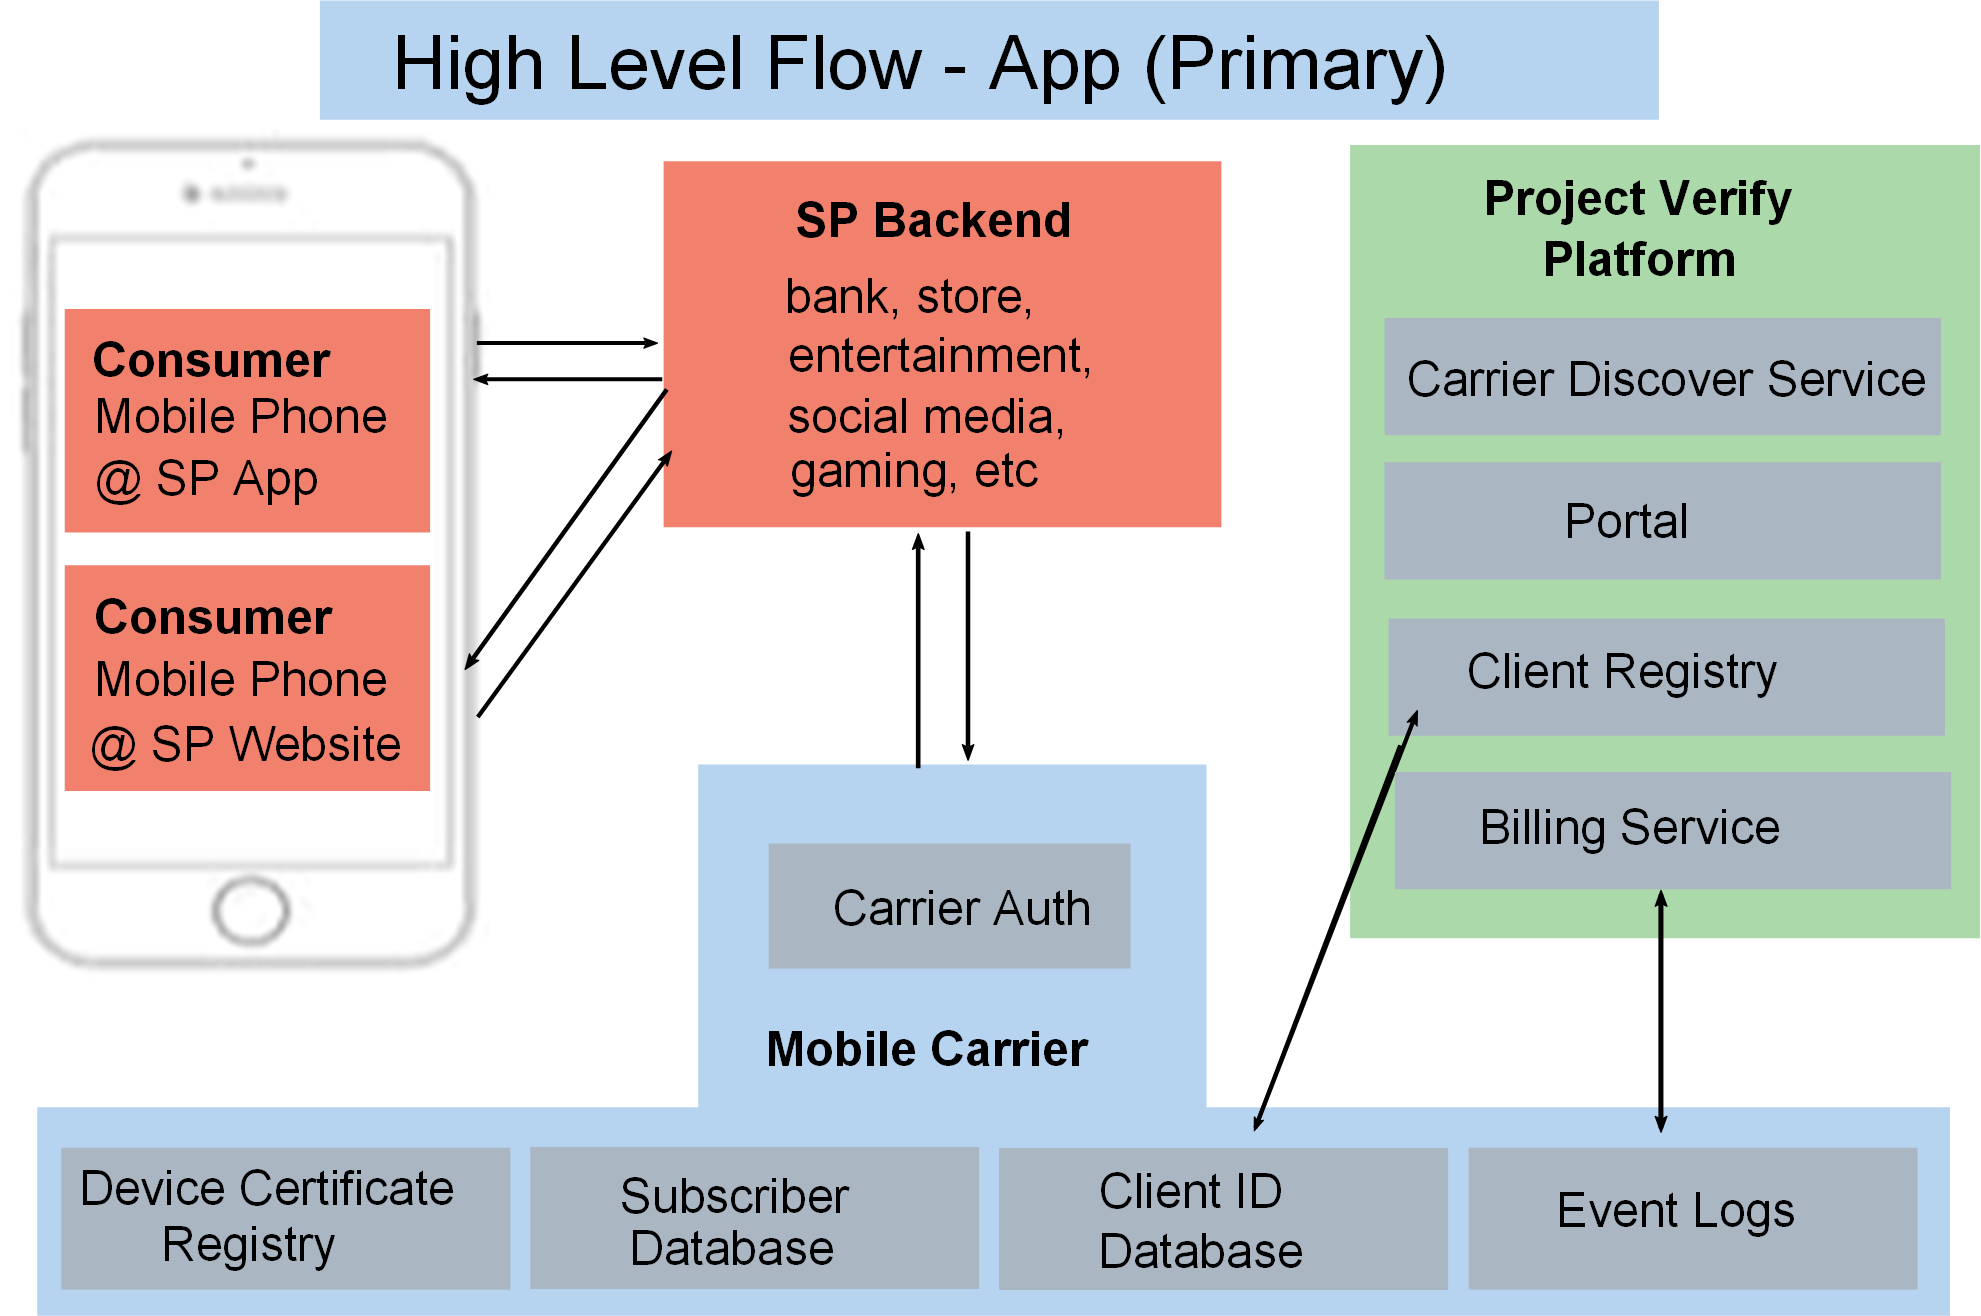
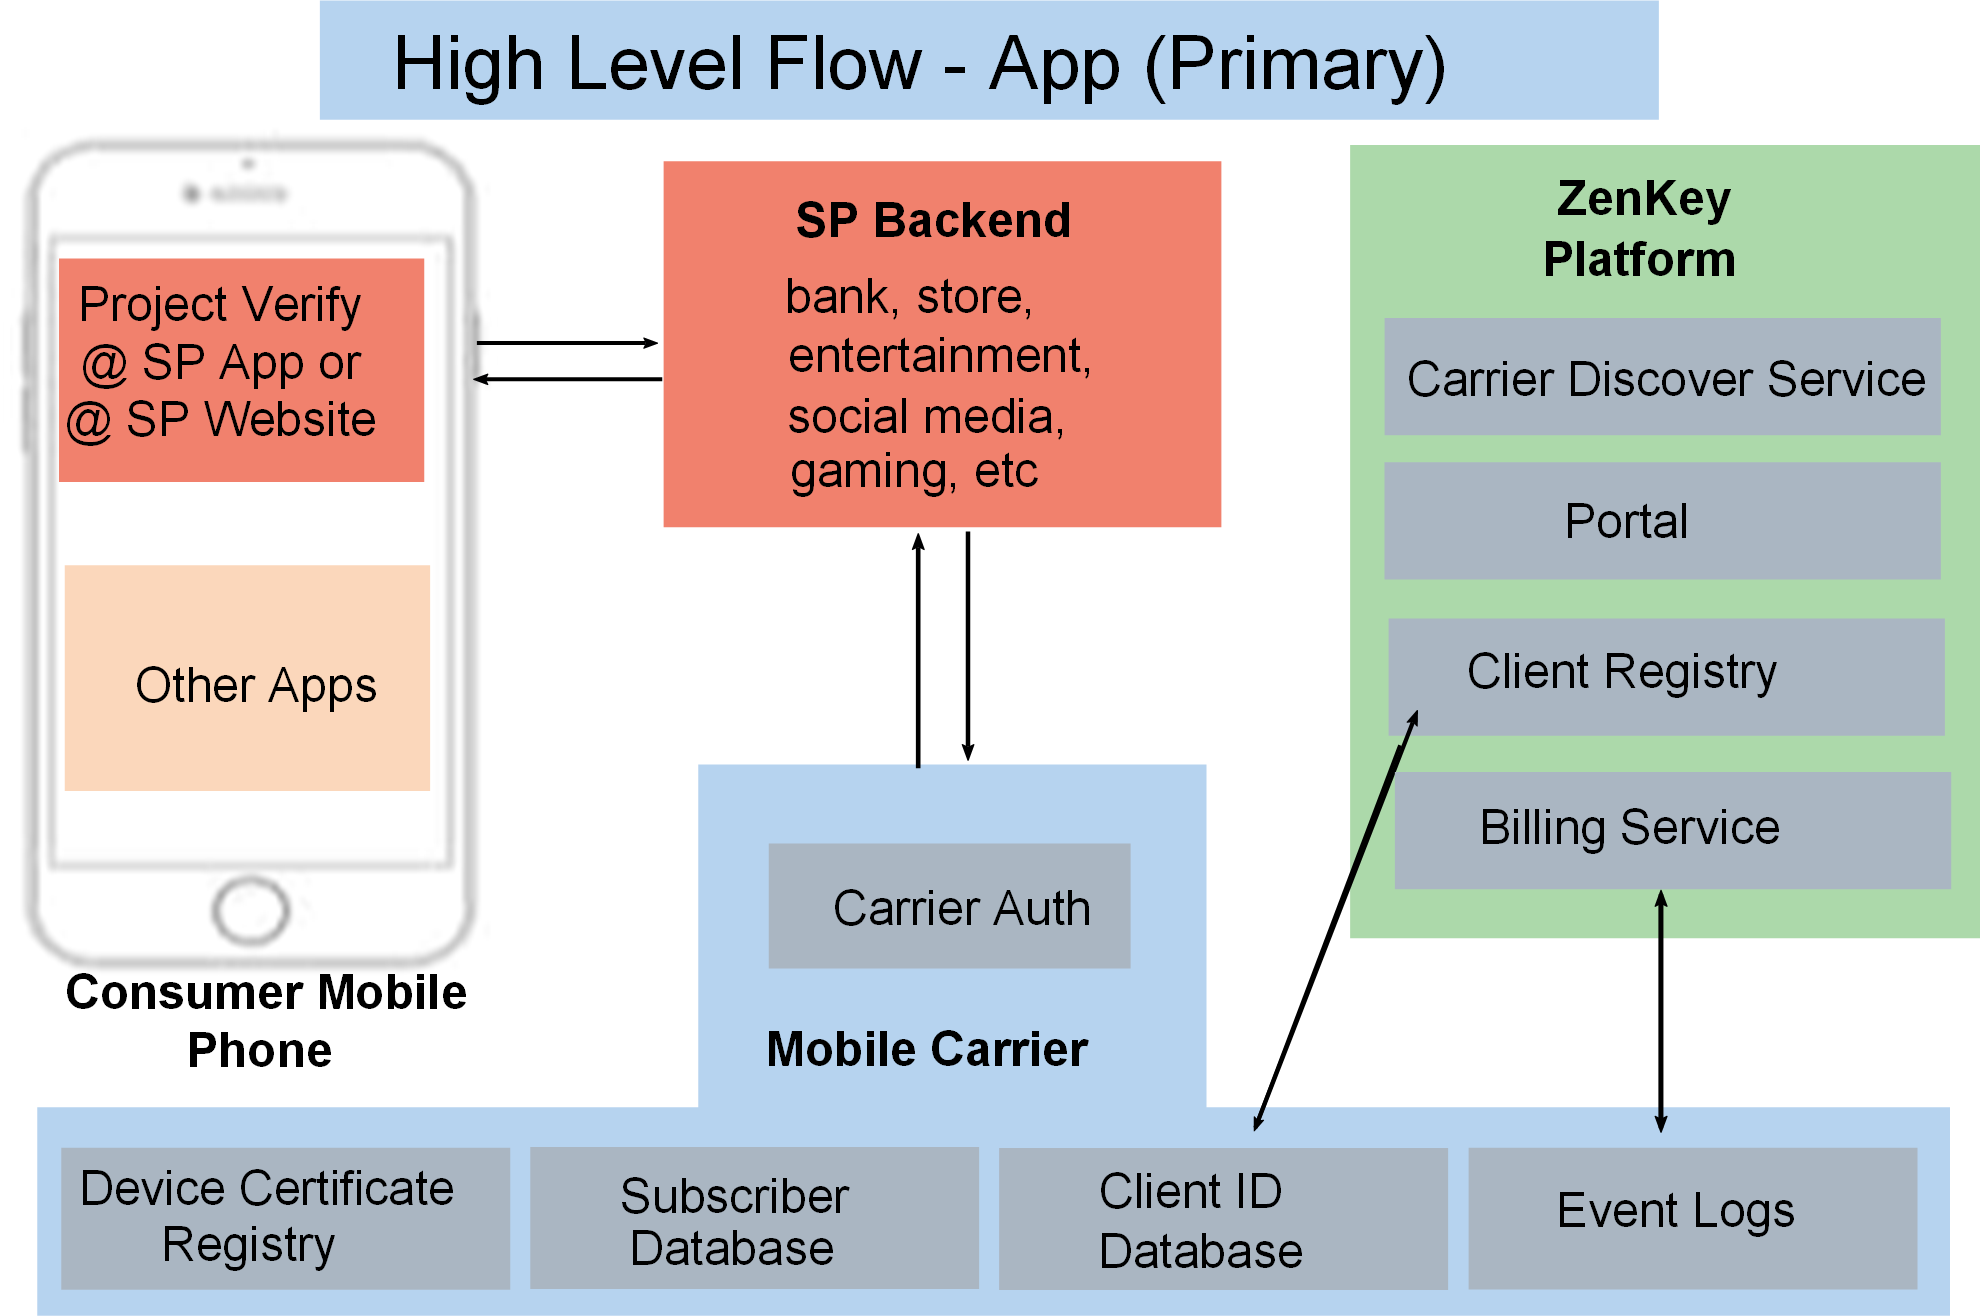
Requested changed added
I added content to respond to the requested changes. Sourced from External API guide and source included in the repo.

diff --git a/README.md b/README.md
@@ -1,12 +1,12 @@
-![Project Verify](image/project_verify.png "Project Verify")
+![Zenkey](image/ZenKey_rgb.png "ZenKey")
 
 # iOS Integration Guide
 
-This guide is for developers integrating Project Verify with their iOS applications.
+This guide is for developers integrating Zenkey with their iOS applications.
 
 ## 1.0 Background
 
-Project Verify is a joint undertaking of the Mobile Authentication Taskforce. The taskforce provides customers with the ability to use their mobile phone number to sign into apps. Project Verify is built on top of OpenID Connect (OIDC).
+Zenkey is a joint undertaking of the Mobile Authentication Taskforce. The taskforce provides customers with the ability to use their mobile phone number to sign into apps. Zenkey is built on top of OpenID Connect (OIDC).
 
 ### 1.1 OpenID Connect
 
@@ -14,27 +14,27 @@ OpenID Connect (OIDC) is an authentication protocol based on the OAuth 2.0 speci
 
 ### 1.2 Authorization Code Flow and Carrier Discovery
 
-Project Verify SDK supports the authorization code flow for web and native applications. In the flow, the user is redirected to the carrier for authorization. Upon successful authorization, the user is redirected to your application with an authorization code, which you should exchange from your secure backend exchanges for an ID token and access token. This flow enhances security, as `clientId`, `clientSecret` and user ID token are not revealed to your client.
+Zenkey SDK supports the authorization code flow for web and native applications. In the flow, the user is redirected to the carrier for authorization. Upon successful authorization, the user is redirected to your application with an authorization code, which you should exchange from your secure backend exchanges for an ID token and access token. This flow enhances security, as `clientId`, `clientSecret` and user ID token are not revealed to your client.
 
-Because each carrier operates its own authorization servers, we determine the user's carrier prior to authentication. This process is called Carrier Discovery (this is an OIDC Discovery with extra parameters). This ensures that the discovery document from Project Verify is for the correct carrier.
+Because each carrier operates its own authorization servers, we determine the user's carrier prior to authentication. This process is called Carrier Discovery (this is an OIDC Discovery with extra parameters). This ensures that the discovery document from Zenkey is for the correct carrier.
 
 ### 1.3 High Level Architecture
 
-Project Verify brings the four main US phone carriers together with a common user authentication experience backed by carrier device authentication. The solution enables two main flows at initial launch (app and web). The app flow is for  service provider (SP) native apps or a SP-browser based websites that are on the same device as Project Verify. The web flow shows secondary device support when the SP website is accessed from a device other than a user’s primary phone.
+Zenkey brings the four main US phone carriers together with a common user authentication experience backed by carrier device authentication. The solution enables two main flows at initial launch (app and web). The app flow is for  service provider (SP) native apps or a SP-browser based websites that are on the same device as Zenkey. The web flow shows secondary device support when the SP website is accessed from a device other than a user’s primary phone.
 
-As the first image shows, consumers from their primary phone access Project Verify either from the SP app or SP website. As a service provider developer, you sign up and log in through the Project Verify portal, then write code in your backend. The architecture looks like this:
+As the first image shows, consumers from their primary phone access Zenkey either from the SP app or SP website. As a service provider developer, you sign up and log in through the Zenkey portal, then write code in your backend. The architecture looks like this:
 
  <img src="image/high_level_flow_app_pri.png" alt="High Level Flow - App" width="550">
 
-The flow goes from consumer through service provider website, to service provider backend, to mobile carrier, to Project Verify and back again.
+The flow goes from consumer through service provider website, to service provider backend, to mobile carrier, to Zenkey and back again.
 
-As the second image shows, consumers from their secondary device (such as a laptop) can access Project Verify from the SP website. The architecture looks like this:
+As the second image shows, consumers from their secondary device (such as a laptop) can access Zenkey from the SP website. The architecture looks like this:
 
  <img src="image/high_level_flow_web_sec.png" alt="High Level Flow - Web" width="550">
 
 The user receives a visual or numeric code with which to confirm their identity with their primary phone. Once they have done this  they can log in with their secondary device.
 
-Consumer verification and authorization flows to Carrier auth, the service provider backend, Project Verify platform and mobile carrier as follows:
+Consumer verification and authorization flows to Carrier auth, the service provider backend, Zenkey platform and mobile carrier as follows:
 
 * Discovery
 * Authorization code request, universal link captured
@@ -46,7 +46,7 @@ Consumer verification and authorization flows to Carrier auth, the service provi
 
 ## 2.0 Getting Started
 
-Before you integrate with Project Verify, register your application and obtain valid `clientId` and `clientSecret` from the portal or by contacting a Customer Operation Specialist.
+Before you integrate with Zenkey, register your application and obtain valid `clientId` and `clientSecret` from the portal or by contacting a Customer Operation Specialist.
 
 ### 2.1 Client Information and Scopes
 
@@ -62,9 +62,9 @@ While the SDK is under development, we recommend maintaining the Provider SDK so
 git submodule add https://git.xcijv.net/sp-sdk/sp-sdk-ios
 ```
 
-## 3.0 Add Project Verify SDK
+## 3.0 Add Zenkey SDK
 
-During development, include the ProjectVerifyLogin SDK in your project. There are currently two ways to integrate Project Verify in your project: via CocoaPods or as a git submodule. Carthage may be supported in the future.
+During development, include the ProjectVerifyLogin SDK in your project. There are currently two ways to integrate Zenkey in your project: via CocoaPods or as a git submodule. Carthage may be supported in the future.
 
 ### 3.1 CocoaPods
 
@@ -80,7 +80,7 @@ Then run `pod install`. This adds the local source to your application's workspa
 
 More information coming soon - *Carthage* may be supported in the future.
 
-### 3.3 Adding Project Verify SDK Manually
+### 3.3 Adding Zenkey SDK Manually
 
 You can add the ProjectVerifyLogin SDK to your project manually:
 
@@ -96,10 +96,10 @@ You can add the ProjectVerifyLogin SDK to your project manually:
 
 ## 4.0 Integration
 
-To integrate Project Verify into your iOS application you must first configure your `Info.plist` with your project verify client Id as well as your chosen redirect URI.
+To integrate Zenkey into your iOS application you must first configure your `Info.plist` with your Zenkey client Id as well as your chosen redirect URI.
 
 ### 4.1 Client ID
-All Service providers must add their application’s client Id to their `Info.plist`. Retrieve your client Id from the Project Verify dashboard and add the following key to your application’s `Info.plist`:
+All Service providers must add their application’s client Id to their `Info.plist`. Retrieve your client Id from the Zenkey dashboard and add the following key to your application’s `Info.plist`:
 
 ```xml
     <key>ProjectVerifyClientId</key>
@@ -107,7 +107,7 @@ All Service providers must add their application’s client Id to their `Info.pl
 ```
 
 ### 4.2 Choosing a Redirect URI
-In addition to configuring a your client Id, Service providers must also specify one or more valid redirect URIs. The redirect URI will be passed as a vehicle for callbacks to the SDK to several Project Verify services. To make it easy to get up and running with Project Verify, all Service Providers are pre-configured with the redirect URI: `{your client Id}://com.xci.provider.sdk`. If you would like to use a different redirect URI you must configure it in the Service Provider Portal. See section 4.2.1 for more information.
+In addition to configuring a your client Id, Service providers must also specify one or more valid redirect URIs. The redirect URI will be passed as a vehicle for callbacks to the SDK to several Zenkey services. To make it easy to get up and running with Zenkey, all Service Providers are pre-configured with the redirect URI: `{your client Id}://com.xci.provider.sdk`. If you would like to use a different redirect URI you must configure it in the Service Provider Portal. See section 4.2.1 for more information.
 
 In order to get up and running with this default configuration, all you need to do is to add your client Id as a custom scheme to your Info.plist:
 
@@ -139,9 +139,9 @@ If you would like to add an extra layer of security to your integration, we reco
     <string>https</string>
 ```
 
-## 5.0 Instantiate Project Verify
+## 5.0 Instantiate Zenkey
 
-To support Project Verify, you must instantiate Project Verify in your application delegate:
+To support Zenkey, you must instantiate Zenkey in your application delegate:
 
 ```swift
 import CarriersSharedAPI
@@ -172,14 +172,15 @@ class AppDelegate: UIResponder, UIApplicationDelegate {
     }
 }
 ```
+**NOTE:** To pass a log level to the launch options to enable logging, include the `projectVerifyOptions` parameter. Refer to section 8.1 of this document for the loglevel options..
 
 ## 6.0 Request Authorization Code
 
-The SDK provides a branded button called `ProjectVerifyAuthorizationButton` that automatically handles Project Verify authorization.
+The SDK provides a branded button called `ProjectVerifyAuthorizationButton` that automatically handles Zenkey authorization.
 
 ### 6.1 Add Verify Button
 
-Add the Project Verify  `ProjectVerifyAuthorizationButton` to your UIView.
+Add the Zenkey  `ProjectVerifyAuthorizationButton` to your UIView.
 
 ```swift
 import CarriersSharedAPI
@@ -201,7 +202,7 @@ class LoginViewController {
 
 #### 6.1.1 Dark Button
 
-You can customize the appearance of the button. A dark button style is appropriate to use with light backgrounds. By default, the Project Verify button uses the dark style specified as follows:
+You can customize the appearance of the button. A dark button style is appropriate to use with light backgrounds. By default, the Zenkey button uses the dark style specified as follows:
 
 ```swift
     projectVerifyButton
@@ -221,9 +222,13 @@ The light button style looks like this:
 
 <img src="image/verify_button_light.png" alt="Verify Button Light" width="360">
 
+#### 6.1.3 Custom Button or View
+
+Add a custom button or view instead of the default **ProjectVerifyAuthorizationButton** to match the theme of your app or flow. Add the implementation details as noted in section 7.0, " Request Authorization Code Manually". 
+
 ### 6.2 Receive Callbacks
 
-In order to receive the outcome of your Project Verify request, implement the `ProjectVerifyAuthorizeButtonDelegate` and handle the events.
+In order to receive the outcome of your Zenkey request, implement the `ProjectVerifyAuthorizeButtonDelegate` and handle the events.
 
 ```swift
 extension LoginViewController: ProjectVerifyAuthorizeButtonDelegate {
@@ -243,10 +248,10 @@ extension LoginViewController: ProjectVerifyAuthorizeButtonDelegate {
             let mcc = authorizedResponse.mcc
             let mnc = authorizedResponse.mnc
             // pass these identifiers to your secure server to perform a token request
-        case .error:
-            // handle the error case appropriately
+        case .error(let authorizationError):
+            // error is returned identity provider
         case .cancelled:
-            // perform any work required when the user cancels
+            //cancelled is users action in application 
         }
     }
 }
@@ -270,12 +275,29 @@ For more information, see [Scope.swift](https://git.xcijv.net/sp-sdk/sp-sdk-ios/
 
 Additionally, it is possible to configure the following parameters:
 
-* ACR Values
-* Request State
-* Nonce
-* Correlation Id
-* Context
-* Prompt
+* ACR Values - Authenticator Assurance Levels (AAL) which identify The strength of an authentication transaction. Stronger authentication (a higher AAL) requires malicious actors to have better capabilities and expend greater resources in order to successfully subvert the authentication process. Values returned in id_token will contain `aalx`. 
+
+  * SP’s should ask for aal1 when they need a low level of authentication, users will not be asked for their pin or biometrics. Any user holding the device will be able to authenticate/authorize the transaction unless the user has configured their account to always require 2nd factor (pin | bio).
+  * SP’s should ask for aal2 or aal3 anytime they want to ensure the user has provided their (pin | bio). 
+
+* Request State - 
+
+* Nonce - A number used once. This is any Service Provider supplied value included in the ID_Token if SP
+  asked for the openid scope. 
+
+* Correlation Id - SPs may pass a correlation id to be added to MNO logs. SPs must work with the CCID onboarding portal to request any log entries.  
+
+  **Note:** an SP should use the same correlation_id for code, token, and userinfo requests. But MNO’s may not enforce this. 
+
+* Context - SPs will be able to submit “text string” for authorization by the user.  Best practice is a server-initiated request should contain a context parameter, so that a user understands the reason for
+  the interaction.  Maximum size will be <280> characters. Any request with a context that is too large will result in an OIDC error. (invalid request).  
+
+* Prompt - The user needs to approve a transaction with each request. 
+
+  * prompt=None - should always return “user interaction required” which is a standard
+    oauth2 response to this request.
+  * prompt=login - SP asks user to authenticate again
+  * prompt=consent - SP asks user to explicitly re-confirm user agrees to exposure of their data. (Carrier recaptures user consent for listed scopes) 
 
 For more information about each of these parameters and instructions on how to use them, view the documentation for the `ProjectVerifyAuthorizeButton`.
 
@@ -320,7 +342,7 @@ Refer to:
 
 ## 8.0 Error Handling
 
-`AuthorizationError` defines the `ErrorType`, `code`, `description` and `errorType` to help the developer debug the error, as well present a description to the user. The `Error Type` identifies a class of error during the Authorization flow, such as`invalidRequest` or `requestDenied`. The developer can include further information, with `code` adding context for the origin of the error, `description` a possible explanation, and `errorType` a possible remedy.
+`AuthorizationError` defines the `code`, `description` and `errorType` to help the developer debug the error or present a description to the user. The `errorType` is of type `ErrorType` which identifies a class of error during the Authorization flow, such as`invalidRequest` or `requestDenied`. The developer can include further information, with `code` adding context for the origin of the error, `description` a possible explanation and possible remedy.
 
 The following table summarizes the `AuthorizationError` error types and potential recovery suggestions for each.
 
@@ -336,20 +358,51 @@ The following table summarizes the `AuthorizationError` error types and potentia
 | unknownError | An unknown error has occurred. | If the problem persists, contact support. |
 
 ### 8.1 Debugging
-It is possible to enable logging by passing a value for the `.logLevel` key via the to the `projectVerifyOptions` parameter in the `ProjectVerifyAppDelegate`. For more information on the options, see the `Log.LogLevel` type.
+It is possible to enable logging by passing a value for the `.logLevel` key via the to the `projectVerifyOptions` parameter in the `ProjectVerifyAppDelegate`. For more information on the options, see the `Log.LogLevel` type  as shown below (source is *Log.swift*).
+
+```swift
+/// A logging structure. Pass a log level to the project verify launch options to enable logging
+/// for use during debugging.
+public struct Log {
+    static private(set) var logLevel: Level = .off
+
+    public enum Level: Int {
+        case off, error, warn, info, verbose
+
+        var name: String {
+            switch self {
+            case .off:
+                return ""
+            case .warn:
+                return "warn"
+            case .error:
+                return "error"
+            case .info:
+                return "info"
+            case .verbose:
+                return "verbose"
+            }
+        }
+    }
+
+    static func configureLogger(level: Level) {
+        logLevel = level
+    }
+
+```
 
 ## 9.0 Next Steps
 
-On your secure server, perform discovery and use the discovered token endpoint to request an access token from Project Verify with the processes already detailed:
+On your secure server, perform discovery and use the discovered token endpoint to request an access token from Zenkey with the processes already detailed:
 
 * Auth Code
 * MCC (Mobile Country Code)
 * MNC (Mobile Network Code)
 * Redirect URI
 
-The token should be used as the basis for accessing or creating a token within the domain of your application. After you exchange the authorization code for an authorization token on your secure server, you will be able to access the Project Verify User Info Endpoint, which should pass information through your server's authenticated endpoints in a way that makes sense for your application.
+The token should be used as the basis for accessing or creating a token within the domain of your application. After you exchange the authorization code for an authorization token on your secure server, you will be able to access the Zenkey User Info Endpoint, which should pass information through your server's authenticated endpoints in a way that makes sense for your application.
 
-Information on setting up your secure server can be found in the Project Verify Server and Web Integration Guide.
+Information on setting up your secure server can be found in the Zenkey Server and Web Integration Guide.
 
 ## Support
 For technical questions, contact [support](mailto:techsupport@mobileauthtaskforce.com).
